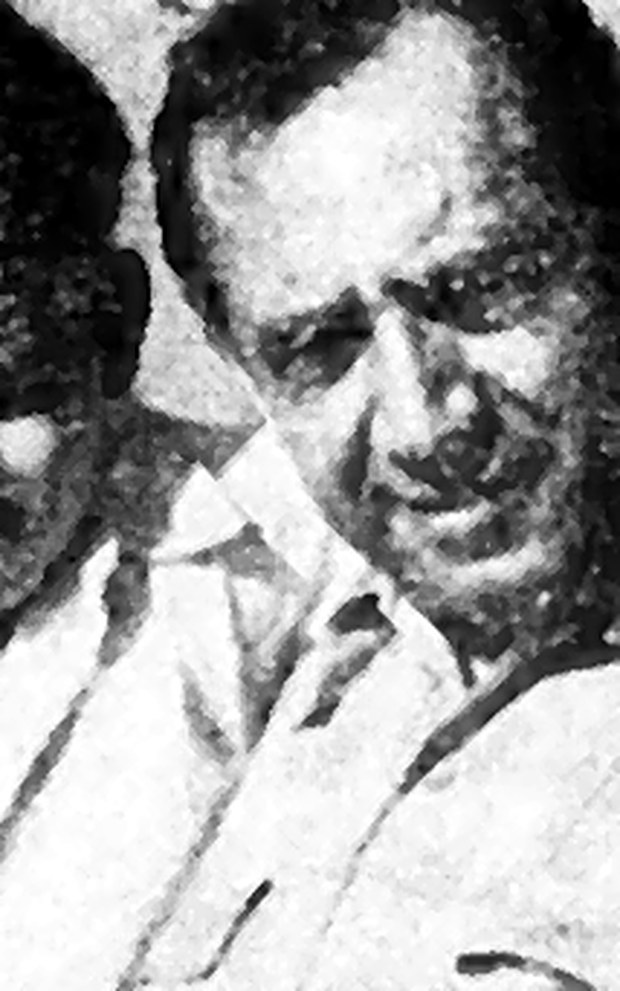
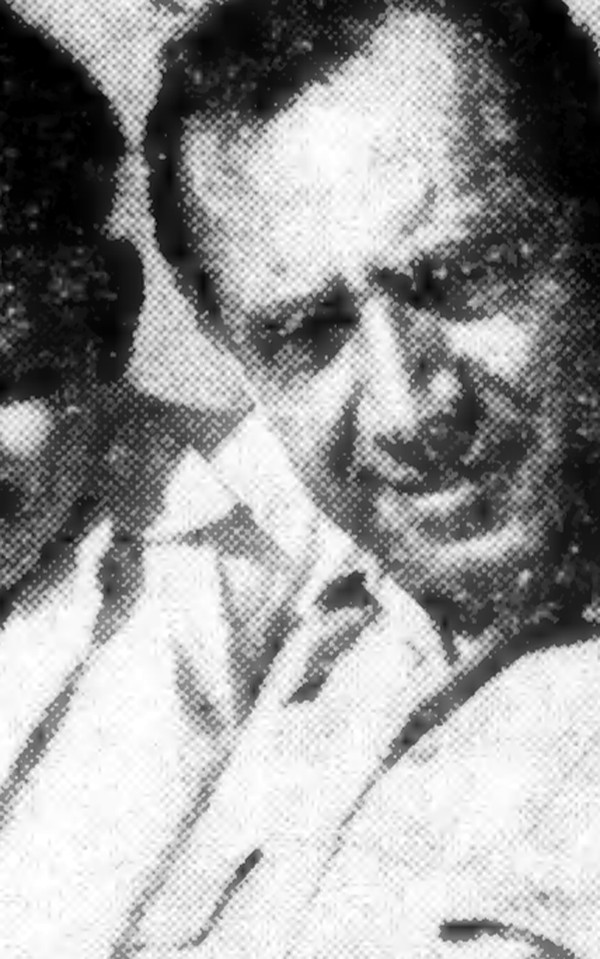
Replace Martin Young photo with cleaner portrait; always overwrite on set
Re-derives the Martin Young portrait by downsampling a 400-dpi render of
the source page (which smooths the halftone dot pattern instead of
sharpening it), matching the tighter head-and-shoulders framing. The
set-martin-young-photo command now always rewrites the stored copy so a
redeploy replaces any earlier crop instead of skipping.

Claude-Session: https://claude.ai/code/session_01CrKCjcvYcFYWnikaLWCPiB

diff --git a/app/Console/Commands/SetMartinYoungPhoto.php b/app/Console/Commands/SetMartinYoungPhoto.php
@@ -38,20 +38,18 @@ class SetMartinYoungPhoto extends Command
             return self::SUCCESS;
         }
 
-        if (! empty($prisoner->photo) && ! $this->option('overwrite')) {
-            $this->info('Martin Young already has a photo — leaving alone (use --overwrite to replace).');
-
-            return self::SUCCESS;
-        }
-
+        // Always (re)write the stored copy from the committed source so a
+        // redeploy replaces any earlier crop rather than skipping. The
+        // --overwrite flag is kept for compatibility but is now the default.
         Storage::disk('public')->makeDirectory('prisoners');
         $relative = 'prisoners/martin-young.jpg';
+        Storage::disk('public')->delete($relative);
         Storage::disk('public')->put($relative, (string) file_get_contents($src));
         $prisoner->photo = $relative;
         $prisoner->save();
 
         Cache::forget(PrisonerApiController::cacheKey());
-        $this->info('Linked photo for Martin Young (slug: '.$prisoner->slug.').');
+        $this->info('Set photo for Martin Young (slug: '.$prisoner->slug.').');
 
         return self::SUCCESS;
     }
